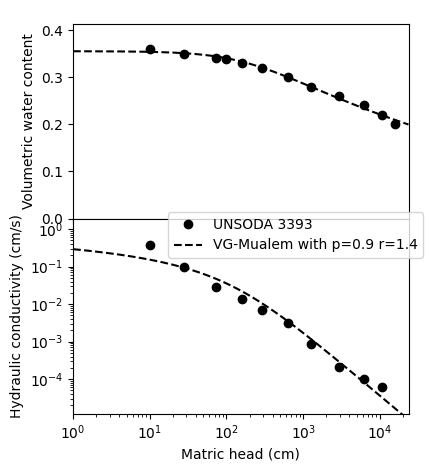
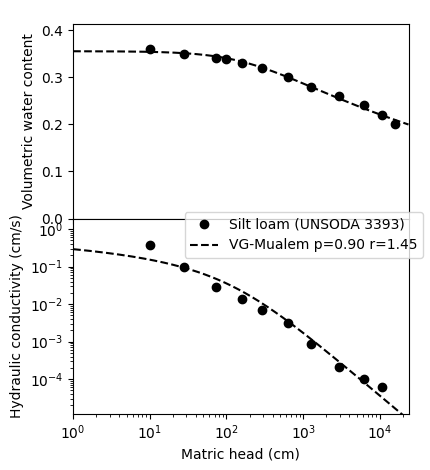
Update figure of sample code

Changed region(s): [[0.393, 0.4468, 0.9674, 0.5362]]

diff --git a/docs/sample/VG-Mualem.py b/docs/sample/VG-Mualem.py
@@ -28,8 +28,8 @@ print(f.message)  # Show result
 f.label_head = 'Matric head (cm)'
 f.label_theta = 'Volumetric water content'
 f.label_k = 'Hydraulic conductivity (cm/s)'
-f.data_legend = 'UNSODA 3393'
-f.line_legend = 'VG-Mualem with p={0:.2} r={1:.2}'.format(p, r)
+f.data_legend = 'Silt loam (UNSODA 3393)'
+f.line_legend = 'VG-Mualem p={0:.2f} r={1:.2f}'.format(p, r)
 f.legend_loc = 'center right'
 f.save_fig = True
 f.filename = FIG
